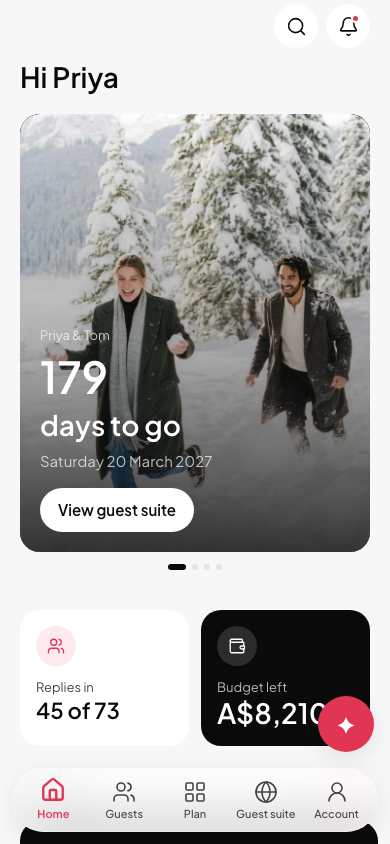
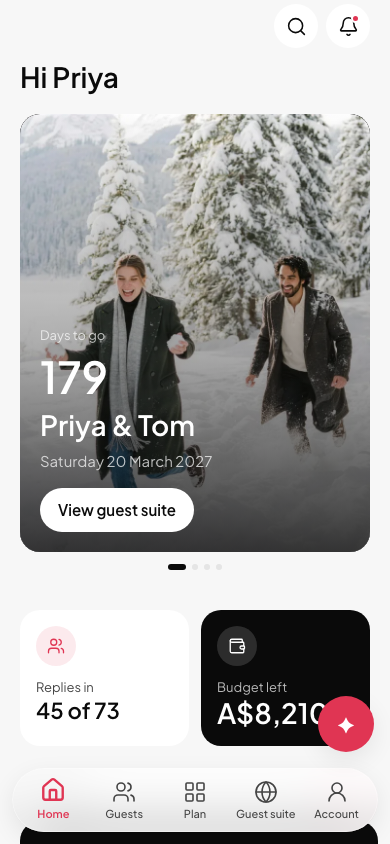
Mobile app goal 7: verify and document
Fresh 390 by 844 screenshots of every changed screen (the daily update
card with both buttons, the search results, the test priming screen,
Home, Account); the two retired launch shots removed. MOBILE_APP.md gets
the goal 7 section: cold-start timings before and after, the daily update
rules, the search coverage table, the test notification steps and what
was and was not verified here; MOBILE_PARITY.md's Home entry follows. The
tab bar and Ava button hide on the priming screen.

diff --git a/src/mobile/shell/MobileShell.jsx b/src/mobile/shell/MobileShell.jsx
@@ -32,6 +32,8 @@ export default function MobileShell({ base = '/m', renderAva, showAva = true, no
   const { pathname } = useLocation();
   const avaOpenRef = useRef(avaOpen);
   avaOpenRef.current = avaOpen;
+  // The priming screen is a full-screen ask: no tab bar or Ava button over it.
+  const fullScreenRoute = /\/priming$/.test(pathname);
 
   // Boot: status bar and keyboard, and the native launch screen goes the
   // moment this shell has painted its first frame (goal 7: no in-app splash,
@@ -121,8 +123,8 @@ export default function MobileShell({ base = '/m', renderAva, showAva = true, no
           }}
         />
         <Outlet />
-        <TabBar base={base} />
-        {showAva && (
+        {!fullScreenRoute && <TabBar base={base} />}
+        {showAva && !fullScreenRoute && (
           <button type="button" className="oi-m-ava" onClick={() => openAva()} aria-label="Ask Ava">
             <span aria-hidden="true">✦</span>
           </button>

diff --git a/MOBILE_APP.md b/MOBILE_APP.md
@@ -172,7 +172,7 @@ The feed is capped to the last thirty days and sixty items. Types the couple has
 
 ### Global search
 
-`/m/search` (the magnifier on Home and Plan) searches guests by name and email, tasks by title, vendors by name and category, and features by name, over the same loaded data as the hub.
+`/m/search` (the magnifier on Home and Plan) searches guests by name and email, tasks by title, vendors by name and category, and features by name, over the same loaded data as the hub. *Goal 7 widened it to events, budget, registry and messages, made every result open its own destination, and added recent searches; see "Global search" under goal 7.*
 
 ### Stubs, skips and blockers added in goal 2
 
@@ -331,6 +331,8 @@ In real mode the couple's own photos still lead the Home hero and the Site previ
 
 ### Launch sequence
 
+*Superseded by goal 7 (below): there is no in-app splash and no greeting any more; the native screen goes the moment the shell paints, and the daily update is a card over the dashboard.*
+
 Tap the icon, a branded native screen, the in-app splash, a greeting, then the dashboard. Verified on the simulator frame by frame; no black frame anywhere.
 
 | Step | What | Where |
@@ -420,8 +422,8 @@ Built against `MOBILE_APP_GOAL_6.md`, one commit per item (items 2 and 4 share o
 ### What changed
 
 1. **App icon.** The Openinvite mark (the arch) on ink, cropped from `public/openinvite-logo.png` and resampled, not redrawn; adaptive foreground and background for Android; the native launch screens show the mark alone, the in-app splash keeps the full wordmark. See the icon-source note under goal 3.
-2. **Launch timing.** Native screen at least 1.2s (`NATIVE_HOLD`, the web layer hides it on that timer), the photo splash at least 1.8s after that and never shorter (`MIN_SPLASH`, at most 6s waiting on data), a crossfade with the next screen already underneath, then the daily update on the first open of each local day (`daily_update_date` in the preferences), then the dashboard. Reduced motion is plain fades.
-3. **Splash pool.** `splashN` slots in `images.ts`; `lib/splashPool.js` draws a shuffled order down in the preferences, the whole pool before a repeat and never the same photo twice running. The pool holds 14 photos (see "Photos").
+2. **Launch timing** (retired in goal 7, see below). Native screen at least 1.2s (`NATIVE_HOLD`, the web layer hides it on that timer), the photo splash at least 1.8s after that and never shorter (`MIN_SPLASH`, at most 6s waiting on data), a crossfade with the next screen already underneath, then the daily update on the first open of each local day (`daily_update_date` in the preferences), then the dashboard. Reduced motion is plain fades.
+3. **Splash pool** (retired in goal 7; the 14 photos went back to the unused list and seven of them became the bundled daily set). `splashN` slots in `images.ts`; `lib/splashPool.js` draws a shuffled order down in the preferences, the whole pool before a repeat and never the same photo twice running. The pool holds 14 photos (see "Photos").
 4. **Daily update.** `shell/DailyUpdate.jsx` over `data/dailyUpdate.js`: the desktop's own `resolveDayState` and `avaSentence` over the same stores, so the phone says exactly what `/DailyUpdate` says; the greeting, the status line and the first move under `Briefing.jsx`'s date. Top third one of the couple's own photos (by day of the year), the rest the brand-red panel with white text at 40/46, 20/28 and 13/18, "Let's go" as a white pill. The flat brand red measures 4.37:1 against white, under AA for the 20px and 13px lines, so the panel carries an 8 percent ink wash (`color-mix`, `#CF324D` where unsupported) that takes it to 5:1; the greeting at 40px passed either way. No truncation at 130 percent text size. `/m/preview/daily-update` shows it; `?launch=1` or `?launch=daily` runs the whole sequence on the web. The greeting screen from goal 4 is retired.
 5. **Guest suite naming.** The tab, the screen, every heading, button, empty state, notification line, Ava prompt, account row and fixture that meant the couple's guest-facing pages. "Website" remains where it means the Openinvite desktop product.
 6. **Hero carousel.** A pool of up to eight cards from real data, four shown, days to go first, the rest rotating by a counter that moves once per app open (`screens/home/heroPool.js`); the share card is Guest suite, Share with your guests, Share link. Hero photos are the couple's own (cover, Our Story, moodboard pins, the guest suite gallery), the standard photos standing in for unfilled positions; the parallax and scale on the hero photo are gone (stills only).
@@ -440,6 +442,74 @@ The one deliberate repeat stays the couple's own cover (identity: the first Home
 ### Verify (goal 6)
 
 `npm run mobile:demo` and `npx cap sync` pass; `npm run build` exits 0; 102 preview screenshots pass the width, tap-target, input-size and shadow checks, including the daily update, the splash and the tab bar over scrolled content; `git diff main --stat` touches only `src/mobile/**`, `assets/`, `ios/`, `android/`, `mobile-screenshots/`, the three markdown files and the screenshot script. Inside `src/mobile/`: no photo rendered twice outside the identity exception above, no QR code, no direct email to guests, no `site` or `website` meaning the guest suite, no off-brand color (the daily update's `#CF324D` fallback is the brand red under the ink wash), no font size outside the scale except the daily update's three.
+
+## Goal 7: instant launch, the daily update on every open, search, the test notification (2026-09-22)
+
+Built against `MOBILE_APP_GOAL_7.md`, one commit per item.
+
+### Instant launch
+
+There is no in-app splash and no splash pool any more. The native launch screen (the mark on ink, unchanged) is the only splash, and the web layer hides it the moment `MobileShell` has painted its first frame: two `requestAnimationFrame`s after mount, then `SplashScreen.hide()` with a 200ms fade (`capacitor.config.ts`), no minimum. `bootNative()` no longer hides it itself. The webview background stays ink so nothing shows behind the shell before it paints, and Home paints its skeletons at once while the planner data loads. The daily update no longer gates anything: it slides up over the dashboard once its words are in.
+
+**Cold-start timings, iPhone 18 Pro simulator (iOS 27.0), debug build, the demo bundle, launched with `xcrun simctl launch` with the console attached.** Offsets are from the launch command; the first column is when Capacitor starts loading the page, which is the same before and after (process start is the system's). Three runs each, the first launch after an install discarded (it is slow for everything on iOS).
+
+| | Loading app at capacitor://localhost | WebView loaded | Native splash hidden | Dashboard visible |
+|---|---|---|---|---|
+| Before (goal 6 build) | 1.84 to 2.07 s | +0.5 s | +0.8 s (the photo splash was already covering the shell) | +4.0 to 4.3 s, and on the first open of a day held until "Let's go" |
+| After (goal 7) | 1.84 to 1.89 s | +0.5 to 0.6 s | +0.7 to 0.8 s, the same moment the dashboard is on screen | +0.7 to 0.8 s |
+
+The shell's own marker (`[oi] shell painted Nms after the page started`, logged from `MobileShell`) reads 209 to 257ms, under the 500ms target. Frame captures (`xcrun simctl io screenshot` every 400ms during a launch) show: the home screen, the mark on ink from the app's zoom animation on, then the dashboard with the daily update card at about 2.9s from the command. No grey and no blank frame. One finding on the way: a simulator build installed unsigned (`CODE_SIGNING_ALLOWED=NO`) shows pure black instead of the launch storyboard, because SpringBoard refuses to render its launch snapshot for a denylisted app (`Snapshot generation request ... rejected due to the app being denylisted` in the log); a signed build ("Sign to Run Locally", which is what Xcode and `xcodebuild` do by default) renders the mark. Goal 6's black-frame note was the same symptom from another cause.
+
+### The daily update, on every open
+
+`shell/DailyUpdateHost.jsx` decides, `shell/DailyUpdate.jsx` draws. It shows on every cold start (once per JS load), and again when the app comes back from the background after 15 minutes or more (`App.appStateChange`, the same event the Face ID lock uses); not on a tab change and not after a few seconds away. "Not again today" writes the local day to the preferences (`daily_update_skip`) and the card stays away until the next calendar day; "Let's go" and a swipe down on the card close it for that open. The words are still the desktop's own (`data/dailyUpdate.js`, unchanged). The card is three-quarter height over the dimmed dashboard: 28px top corners, the elevation token, a grab handle over the photo, the photo about a third, the brand-red panel with the date, greeting and lines, "Let's go" as the white pill and "Not again today" as a white text button at 15/20 and 44px tall. Reduced motion fades instead of sliding. At 130 percent text the photo gives way (down to 150px) and the panel scrolls; the buttons stay.
+
+**Photos.** Seven photos are bundled with the app at build time, `src/mobile/assets/daily/{mon..sun}.webp`, 800 by 560 WebP (15 to 110 KB), downloaded from the `app/` folder during development and committed; `?no-inline` keeps them files in `dist/assets` (the desktop Vite config base64-inlines every non-font asset). `shell/dailyPhotos.js` picks one by `Date.getDay()` and decodes it when the shell mounts, so the card never waits on it. They are seven of the retired splash pool, chosen for calm, bright, eyes open and faces whole: the bamboo grove (Mon), the flowering lane (Tue), the seawall at sunset (Wed), the open window (Thu), the raspberry cake (Fri, cropped from the top), breakfast by the pool (Sat), glasses raised (Sun). They are slots in `images.ts` (`dailyMon` to `dailySun`, `bundled`) so the once-only check covers them; they appear nowhere else. The other seven pool photos are unused again (see "Photos" below).
+
+**Review builds.** A long press on the Account title (600ms) brings the card back whatever the day's answer (`showDailyUpdate` on the shell context; demo builds and dev only). On the web, `?daily=1` on any preview route forces it; `/m/preview/daily-update` redirects there. The web preview never shows it on its own, so the screenshot run is not covered by it.
+
+### Global search
+
+Every result navigates to its own destination and search closes as it goes; back returns to search with the query intact, because the query rides in `?q=` (`SearchScreenPage`). Return (the keyboard's search key; the bar is a form) opens the top result. With the field empty, the last five searches show under "Recent" with a Clear button (`search_recent` in the preferences). The browser's own clear button on `type="search"` is hidden; the app's stays.
+
+| Result | Matches on | Opens |
+|---|---|---|
+| Planner (features) | name | the feature screen |
+| Guests | name, email | `/guests/:id`, the guest profile |
+| Tasks | title | `/plan/checklist?task=:id`, the task detail sheet |
+| Events | event name, location | `/plan/schedule?event=:id`, the event's sheet |
+| Vendors | name, category | `/plan/vendors/:id`, vendor detail |
+| Budget | item, vendor, category | `/plan/budget?expense=:id`, the expense sheet |
+| Registry | product, platform, fund name | `/plan/registry?segment=products|links|funds&item=:id`, the item's sheet |
+| Messages | guest, message, subject | `/plan/messages/:id`, the thread |
+
+The desktop's top bar searches pages, guests, vendors and to-dos; the app covers those and the four more. The open-by-id is one hook, `lib/openById.js`, used by `ChecklistScreen`, `ScheduleScreen`, `BudgetScreen` and `EntityListScreen` (the registry's three lists): the sheet opens once the list is in and does not reopen after it is closed. Every row in the table was tapped in the preview by a Playwright walk (guest, task, event, vendor, expense, platform, product, fund, message, feature), each landing on the destination with the sheet open where one is named, and back returning to `/search?q=`.
+
+### Home hero cards
+
+Days to go first, always; the guest suite share card last, always; between them two cards from the pool real data backs (RSVPs, from Ava, budget, next payment, next task, song requests or the guestbook), rotating from a point that moves once per app open (`heroPool.js`, `pickHeroes({ first, middle, last })`). Every card carries a label: Days to go, RSVPs, From Ava, Budget, Next payment, Next up, Song requests, Guestbook, Messages, Guest suite. The budget card shows what is left against the total with a progress bar and the spent figure under it.
+
+### The test notification
+
+`@capacitor/local-notifications` (8.3.1) is the one new dependency; `cap sync` added it to `ios/App/CapApp-SPM/Package.swift` and the Android gradle files. Under Account in demo builds and dev, "Send a test notification" opens the priming screen with `?test=1`; "Turn on notifications" records the choice, asks the system (`LocalNotifications.requestPermissions`), then schedules three notifications from the copy catalog 10, 20 and 30 seconds out (`notifications/testNotification.js`): a reply, a payment due and the briefing, in the feed's own words where it has them, otherwise samples from the same templates. Each carries its screen's link in `extra`; a tap from the lock screen fires `localNotificationActionPerformed` and the shell navigates to it, the same link the notification center's row uses. One that lands while the app is open fires `localNotificationReceived` and the shell shows the in-app banner (iOS itself shows nothing in the foreground: `presentationOptions: []`). The priming screen's normal path (the first reply) now asks the system too. The tab bar and the Ava button hide on the priming route.
+
+To try it on the phone: Account, Send a test notification, Turn on notifications, Allow, then lock the phone. The three arrive over the next half minute; tap one and the app opens on Guests, Budget or Home. Denied in Settings shows "Notifications are off for Openinvite in Settings"; the web shows "Test notifications need the phone app".
+
+**Verified here:** the plugin links and the app boots with it (the simulator build); the whole flow on the web preview (row, priming screen, the unavailable toast, back to Account); the copy. **Not verified here:** the lock-screen result and the tap, which need a finger: the simulator accepts no synthetic taps from this session and `simctl openurl` stops at the "Open in Openinvite?" alert. The owner's phone test is the check.
+
+Real push still needs the backend in `PUSH_BACKEND_PROPOSAL.md` (a device token entity, a fan-out function, APNs and FCM keys) and the paid Apple Developer Program; the wrappers in `native.ts` (`requestNotificationPermission`, `scheduleLocalNotifications`, `onNotificationOpened`, `onNotificationReceived`) are the shape it will use.
+
+### Research
+
+`MOBILE_IDEAS.md`: fourteen ideas with effort, program and backend needs and a recommendation, the top ten ranked (widgets, the wedding-day Live Activity, a share extension, calendar sync, Contacts import, offline for the day, Siri, real push, a Wallet pass, capture shortcuts); room blocks, in-app purchase, a guest app and vendor messaging flagged against owner decisions or stage.
+
+### Photos
+
+`/m/preview/images` reads 81 slots, 81 photos, no repeats, none needing a photo (88 before: 14 pool slots out, 7 daily slots in). Unused photos in `app/` are now 16: the 9 from goal 6 and the 7 pool photos that did not become daily photos (the leap into the sea from the rocks, laughing in the blue doorway, the two helmets in the car mirror, the tulips at the flower market, the wrapped bouquet, the kiss in the tall window, the olives in a martini). The one deliberate repeat stays the couple's own cover.
+
+### Verify (goal 7)
+
+`npm run mobile:demo` and `npx cap sync` pass; `npm run build` exits 0; 103 preview screenshots pass the width, tap-target, input-size and shadow checks (three new: `daily-update`, `search-results`, `notification-priming-test`; `launch-splash` and `launch-daily-update` retired); `git diff 71d3b5bc --name-only` (the branch before goal 7) touches only `src/mobile/**`, `ios/`, `android/`, `capacitor.config.ts`, `package.json`, `package-lock.json`, `mobile-screenshots/`, the markdown files and the screenshot script. Inside `src/mobile/`: no photo twice (the daily set included, checked by id in `images.ts`), no color outside the tokens (the new CSS uses white, the tokens and the `#CF324D` fallback), no font size outside the scale beyond the daily card's three.
 
 ## Keeping parity
 
@@ -591,7 +661,7 @@ The exact redirect URLs that will need registering are therefore
 ## Roadmap, in order
 
 1. Deep links for auth (above), plus CORS for the shell origin, which gates everything.
-2. Push notifications (`@capacitor/push-notifications`; APNs and FCM; a device-token field would need a schema decision).
+2. Push notifications (`@capacitor/push-notifications`; APNs and FCM; a device-token field would need a schema decision). Local notifications are in since goal 7 (the test notification); `MOBILE_IDEAS.md` ranks what comes after.
 3. Face ID / biometric unlock in front of the stored session.
 4. Camera upload for the moodboard and cover photo (`@capacitor/camera` plus the existing Cloudinary upload path).
 5. App Store and Play Store assets: icons, splash, screenshots, privacy labels; a `mobile:assets` step with `@capacitor/assets`.

diff --git a/MOBILE_PARITY.md b/MOBILE_PARITY.md
@@ -31,7 +31,7 @@ itself stays on desktop and is noted.
 ### Daily update (`/DailyUpdate`) → `/m` Home
 
 **Desktop.** Greeting, day state, stat tiles (replies, budget, tasks, vendors), Ava briefing, latest activity. No forms. Ava: `AvaChatPod`.
-**Mobile.** Hero carousel (days to go, replies, from Ava, share the site), stat pair, Next up (payments due and open tasks, tap to complete), keep planning, from Ava, latest three notifications, pull to refresh. Ava opens the same pod in a sheet.
+**Mobile.** The daily update card on every open (goal 7: the desktop's own greeting and day-state sentence, a bundled photo, Let's go, Not again today, swipe to close), then Home: hero carousel (days to go first, two rotating cards from RSVPs, from Ava, budget, next payment, next task, song requests or guestbook, the guest suite share card last, every card labelled), stat pair, Next up (payments due and open tasks, tap to complete), keep planning, from Ava, latest three notifications, pull to refresh. Ava opens the same pod in a sheet. Global search (goal 7) covers the desktop top bar's pages, guests, vendors and to-dos plus events, budget, registry and messages, each result opening its own screen or sheet.
 **Gaps.** None on content. Owner fix 1: the Next up cards are unequal heights.
 **Status.** Done. Owner fix 1: every Next up card is 156px, titles clamp to two lines, meta and body to one, content aligned to the top with the action at the foot.
 
